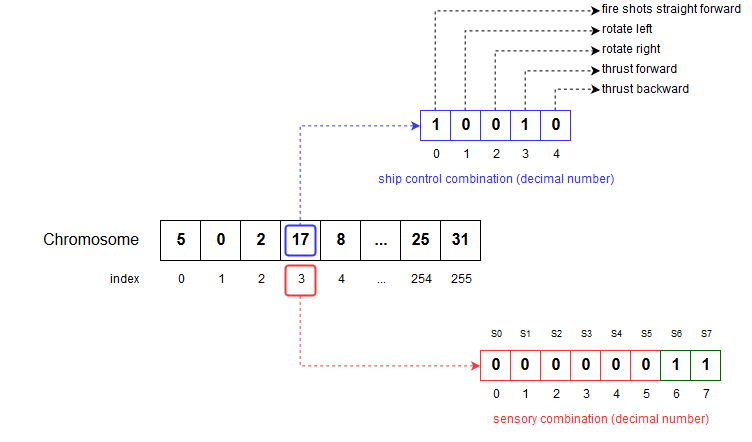
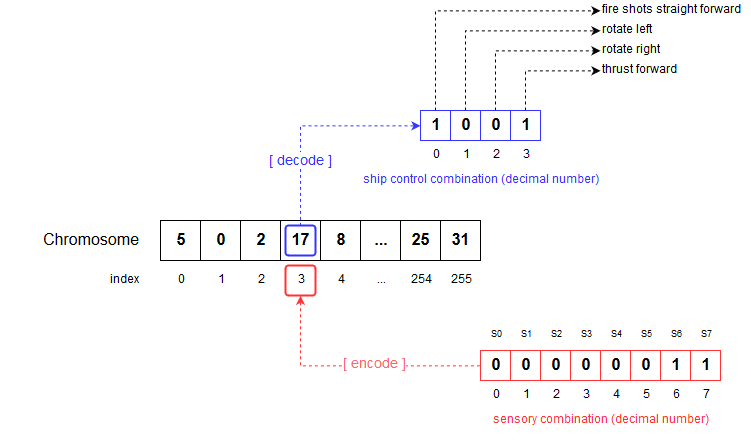
Update doc

diff --git a/README.md b/README.md
@@ -24,13 +24,30 @@ Asteroids is a space-themed multidirectional shooter arcade game designed by Lyl
 6.  Evaluate the individual fitness of new individuals.
 7.  Replace least-fit population with new individuals.
 
-### Chromosome
+### Individual (Chromosome)
 
 A chromosome generally means a part of a gene. In the context of evolutionary algorithms, however, a chromosome represents a potential solution to the problem. Here’s an example:
 
 <p align="center">
   <img src="https://github.com/kleberandrade/evolve-asteroids/blob/master/Screenshots/chromosome.png" height="500"/>
 </p>
+
+*   Number of individuals (solutions): 179769313486231590772930519078902473361797697894230657273430081157732675805500963132708477322407536021120113879871393357658789768814416622492847430639474124377767893424865485276302219601246094119453082952085005768838150682342462881473913110540827237163350510684586298239947245938479716304835356329624224137216
+
+### Fitness Function
+
+Fitness Function (also known as the Evaluation Function) evaluates how close a given solution is to the optimum solution of the desired problem. It determines how fit a solution is.
+
+$$fitness_{chromosome} = \left( \sum_{i=0}^{N} score(asteroid_i)\right ) - \frac{time}{time_{max}}$$(1)
+
+*   **Small asteroid** destroy to earn 100 points
+*   **Large asteroid** destroy to earn 20 points
+
+### Selection
+
+### Crossover
+
+### Mutation
 
 ## Licença
 
